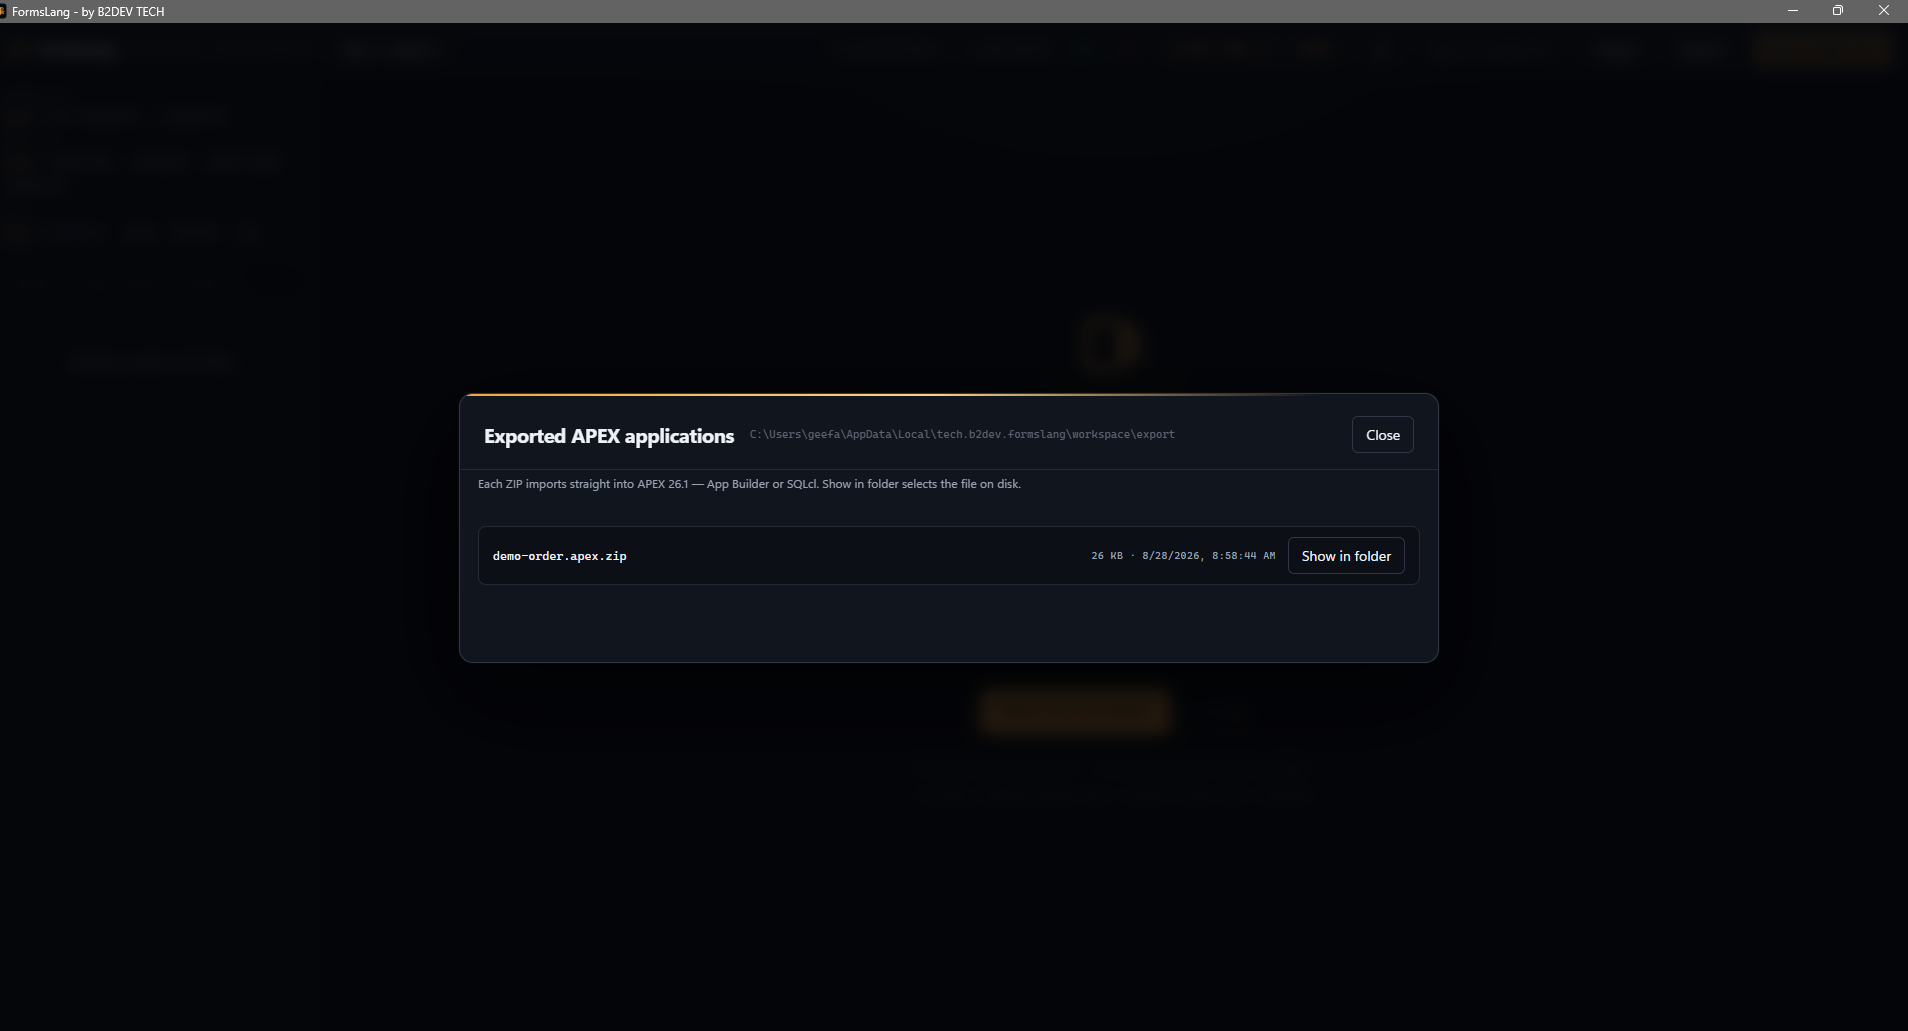
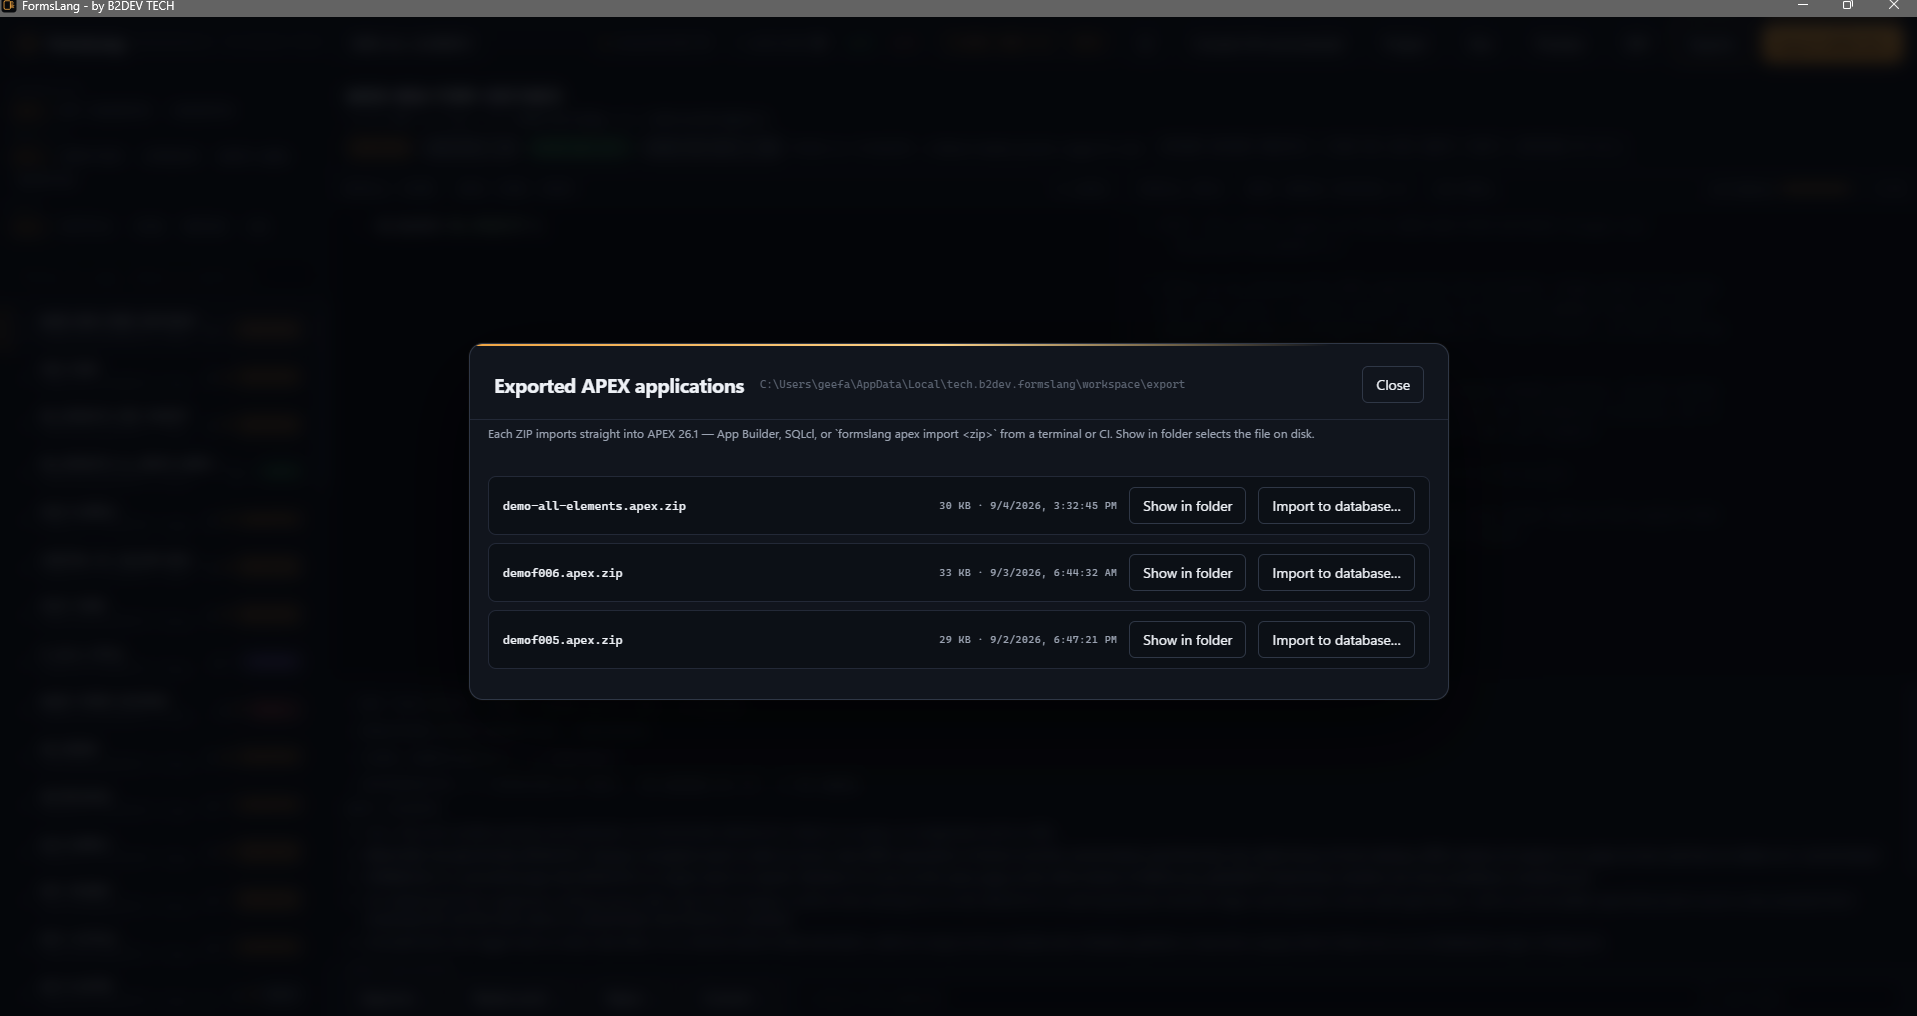
docs: refresh README screenshots from the 1.0 workbench
Sixteen captures of the 1.0 workbench on the showcase module replace the
older set: the review screen (hero), a unit converting through the
Claude Code CLI, Doc (overview, block, triggers), Preview (the Forms
canvas next to the APEX page), Diff, the export dialog while importing
and after "Import successful.", the Exports panel, App Builder before
and after the import, and the imported page running in APEX 26.1.
Every image has alt text and a caption; the running-page screenshot
carries a note that the layout of the converted application is being
improved. doc-report.png is superseded by the three Doc captures.

diff --git a/README.md b/README.md
@@ -35,13 +35,15 @@ same session rebuilds, byte for byte, on a build server.
 
 <p align="center">
   <img src="assets/screenshots/workbench-review.png" width="900"
-       alt="The FormsLang workbench reviewing a PRE-INSERT trigger: the Forms code on the left, the proposed APEX code on the right, and the model's reasoning underneath">
+       alt="The FormsLang workbench reviewing a WHEN-VALIDATE-ITEM trigger: the four lines of Forms code on the left, the APEX page validation proposed to replace them on the right at confidence 0.82, and underneath what changed, split into facts, inferences and assumptions">
 </p>
 
 <p align="center">
-  <sub>The workbench mid-review: a block-level <code>PRE-INSERT</code> trigger, the APEX code
-  proposed to replace it, what changed and why, and the questions the model refused
-  to answer on its own. The verdict on this one was <em>rejected</em> — by a human.</sub>
+  <sub>The workbench mid-review: unit 4 of 59, a <code>WHEN-VALIDATE-ITEM</code> on
+  <code>BK_PRODUTO.VL_PRECO</code>. Left, the four lines that run today; right, the page
+  validation proposed to replace them; underneath, <em>what changed</em> — facts first,
+  then inferences, then the two assumptions the model made and flagged as unverified.
+  The verdict is still open. The bar at the bottom is waiting for a name.</sub>
 </p>
 
 ## Creator
@@ -343,6 +345,18 @@ tracks elapsed time, queued units show a spinner, and the unit being read
 gets an overlay on the APEX pane — the screen accounts for every second of
 it instead of going quiet.
 
+<p align="center">
+  <img src="assets/screenshots/workbench-converting-cli.png" width="900"
+       alt="Converting WHEN-NEW-FORM-INSTANCE with the Claude Code CLI: the top bar names the unit and counts elapsed seconds, the APEX pane explains what the model is doing, and the risk, behaviour, compatibility and dependency panels below are already filled from the offline analysis">
+</p>
+
+<p align="center">
+  <sub>One unit, one CLI call. The top bar says which unit and how long; the APEX
+  pane says what is happening and how long it usually takes; and the panels below —
+  risk LOW with its single factor, behaviour PRESERVED, dependencies counted both
+  ways — were computed offline, before the model was asked anything.</sub>
+</p>
+
 ### What the screen tells you before you decide
 
 Every unit is measured the moment the module opens — offline, with no
@@ -417,8 +431,29 @@ formslang doc "D:\legacy\forms\ORDERS.fmb" -o out
 ```
 
 <p align="center">
-  <img src="assets/screenshots/doc-report.png" width="900"
-       alt="FormsLang Doc report for a real Forms module: overview counts (7 blocks, 121 items, 77 triggers, 14 program units, 4 LOVs, 4 record groups) and the first block's properties, including its query source table and WHERE clause">
+  <img src="assets/screenshots/doc-overview.png" width="900"
+       alt="FormsLang technical documentation for the showcase module DEMO_ALL_ELEMENTS: overview counts (5 blocks, 78 items, 55 triggers, 4 program units, 4 LOVs, 3 record groups, 2 relations, 500 PL/SQL lines), the module properties and the start of the block reference">
+</p>
+
+<table align="center">
+  <tr>
+    <td width="50%">
+      <img src="assets/screenshots/doc-block.png"
+           alt="The Blocks tab: BK_PRODUTO's properties — database block, query source TAB_PRODUTO, insert, update and delete allowed, ORDER BY DS_NOME — followed by its 33 items with type, datatype, column, required flag, maximum length, prompt and LOV">
+    </td>
+    <td width="50%">
+      <img src="assets/screenshots/doc-triggers.png"
+           alt="Block-level triggers of BK_PRODUTO exactly as Forms stored them: PRE-QUERY, 10 lines, and POST-QUERY, 25 lines">
+    </td>
+  </tr>
+</table>
+
+<p align="center">
+  <sub>Left: one block, property by property, then every item with its type, column,
+  required flag, maximum length, prompt and LOV. Right: the block's triggers,
+  verbatim — the <code>PRE-QUERY</code> that sets a default WHERE from a control
+  checkbox, the <code>POST-QUERY</code> that formats a price and looks up a category.
+  Nothing is summarized. The document <em>is</em> the module.</sub>
 </p>
 
 `Diff` structurally compares two versions of the same module — blocks,
@@ -436,6 +471,28 @@ every form-level trigger and all eighteen program units reported unchanged,
 because they were. A `.fmb` in git is a binary blob; this is the diff git
 cannot give you.
 
+<table align="center">
+  <tr>
+    <td width="50%">
+      <img src="assets/screenshots/diff-blocks.png"
+           alt="Structural diff summary: for blocks, form-level triggers, program units, LOVs, record groups and relations, how many were added, removed, modified and unchanged; below it the blocks added and removed as chips, and the one modified block with its property changed from N to Y">
+    </td>
+    <td width="50%">
+      <img src="assets/screenshots/diff-items-triggers.png"
+           alt="The same diff further down: items added and removed as chips, the form-level triggers removed, and a modified WHEN-NEW-FORM-INSTANCE shown as a unified diff hunk">
+    </td>
+  </tr>
+</table>
+
+<p align="center">
+  <sub>The screenshots are a different run — the showcase module diffed against an
+  unrelated one, so every section has something to report. The summary counts
+  what was added, removed and modified <em>and</em> what stayed the same; below
+  it, blocks, items and triggers as chips, one property per row, and every
+  modified code body as a unified hunk. On two revisions of the same module,
+  most of this page reads <em>unchanged</em>.</sub>
+</p>
+
 ### Visual preview (`Preview`)
 
 A third button, same idea: a read-only, side-by-side look at every Forms
@@ -449,6 +506,34 @@ approximated rather than silently shown as a sure match.
 ```bash
 formslang preview "D:\legacy\forms\ORDERS.fmb" -o out
 ```
+
+<p align="center">
+  <img src="assets/screenshots/preview-mapping.png" width="900"
+       alt="Visual preview of DEMO_ALL_ELEMENTS: 5 canvases, 5 blocks, 78 items, 74 positioned, 1 hidden in Forms, 25 APEX regions, 78 mapped with confirmed evidence and 0 approximated; a notice that this is the default mapping with no picker; and the first Forms canvas drawn at real size">
+</p>
+
+<table align="center">
+  <tr>
+    <td width="50%">
+      <img src="assets/screenshots/preview-forms-canvas.png"
+           alt="The Forms UI as the .fmb describes it: canvas CV_MAIN, 760 by 410 points, the window 'Cadastro de Produto' with its toolbar buttons, frames, prompts, a checkbox, a radio group and a list item, drawn at real size">
+    </td>
+    <td width="50%">
+      <img src="assets/screenshots/preview-apex-page.png"
+           alt="The APEX preview of the same canvas: a toolbar region, the 'Cadastro de Produto' region with 'Dados do Produto' inside it, every item in its 12-column cell and badged with the APEX type it will get — textField, textarea, selectList, displayOnly — and the five items that sit on no canvas listed above">
+    </td>
+  </tr>
+</table>
+
+<p align="center">
+  <sub>Source on the left, destination on the right — the same 24 items of
+  <code>CV_MAIN</code>. The Forms side is drawn from the <code>.fmb</code> geometry
+  (1 point = 1.33 px), bevels, prompts and boilerplate included. The APEX side is
+  the page exactly as the export writes it, each item badged with the APEX type it
+  gets. The five items that live on no canvas are listed, not lost. The counters
+  at the top say how much of that mapping rests on confirmed evidence: here, all
+  78 items, none approximated.</sub>
+</p>
 
 ## Authentication and multi-user workspaces
 
@@ -606,6 +691,26 @@ underneath, shows the exact command line that rebuilds the same ZIP from a
 terminal — `formslang export ORDERS.session.db --app-id 19078 --alias
 orders` — kept in step with the fields as you type.
 
+<table align="center">
+  <tr>
+    <td width="50%">
+      <img src="assets/screenshots/export-dialog-importing.png"
+           alt="The Export Oracle APEX 26.1 dialog: application name, alias, application ID 100, workspace and parsing schema left to be resolved during import, page 1, the 'Import into APEX right after building' checkbox, the equivalent command line, a JDBC thin connection to FREEPDB1, the schema user, a masked password, and the Importing… state; a toast says the APEXlang ZIP is ready">
+    </td>
+    <td width="50%">
+      <img src="assets/screenshots/export-dialog-imported.png"
+           alt="The same dialog after SQLcl returned: 'Importing application ID: 100 into workspace: FORMSLANG — Import successful.' in green, a Show exports button, and an 'Imported into APEX.' toast">
+    </td>
+  </tr>
+</table>
+
+<p align="center">
+  <sub>The same dialog, a few seconds apart. Workspace and parsing schema are
+  resolved during import, not baked into the ZIP. The line under the checkbox is
+  the build a pipeline runs. The password is masked here and goes to the OS
+  credential store, never to a file. On the right, SQLcl's own verdict, verbatim.</sub>
+</p>
+
 The export folder contains:
 
 - `<alias>.apex.zip` — the APEXlang 26.1 package for SQLcl validation/import
@@ -633,7 +738,7 @@ after every export.
 
 <p align="center">
   <img src="assets/screenshots/exports.png" width="900"
-       alt="Exported APEX applications panel listing demo-order.apex.zip with its size, timestamp and a Show in folder action">
+       alt="Exported APEX applications panel: the export folder path in the header, three ZIPs with size and timestamp, and Show in folder and Import to database… actions on each">
 </p>
 
 The ZIP is deliberately separate from the audit artifacts. Only approved
@@ -682,6 +787,46 @@ apex import   -input orders.apex.zip
 appears when a page is rendered. The repeatable procedure for that last
 mile — import, make the page public, fetch it through ORDS, read the HTML —
 is in [docs/apex-import-verification.md](docs/apex-import-verification.md).
+
+### What lands in APEX
+
+<table align="center">
+  <tr>
+    <td width="50%">
+      <img src="assets/screenshots/apex-builder-before.png"
+           alt="Oracle APEX 26.1 App Builder, workspace formslang, before the import: No Applications found">
+    </td>
+    <td width="50%">
+      <img src="assets/screenshots/apex-builder-after.png"
+           alt="The same App Builder after formslang apex import: application 100, DEMO_ALL_ELEMENTS, alias demo-all-elements, 3 pages">
+    </td>
+  </tr>
+</table>
+
+<p align="center">
+  <sub>Before and after one <code>formslang apex import</code> on a local APEX 26.1
+  (<code>FREEPDB1</code>): an empty workspace, then application 100 with its three
+  pages — the ZIP the dialog above built, nothing else.</sub>
+</p>
+
+<p align="center">
+  <img src="assets/screenshots/apex-app-running.png" width="900"
+       alt="Page 1 of the imported application running in APEX 26.1 with Universal Theme: the toolbar buttons and the 'Somente ativos' checkbox at the top, the 'Cadastro de Produto' region with 'Dados do Produto' inside it, every Forms item as a page item — text fields, a textarea, a select list, a radio group, a checkbox — and the 'Identificacao do Lote' region below">
+</p>
+
+<p align="center">
+  <sub>The converted page, running. Every item of the canvas is on the page, in
+  Universal Theme, in the region and grid cell its Forms position mapped to, with
+  the required marks Forms declared.</sub>
+</p>
+
+> **Note — the layout of the converted application is being improved.** What
+> you see above is the scaffold 1.0 exports today: correct placement, correct
+> item types, correct required flags, but item widths, label alignment and
+> region packing still read as a migration scaffold rather than a finished
+> page. Tightening that layout is the current work on the exporter. Schema
+> binding, LOVs, validations and navigation remain the functional review
+> described above.
 
 ## Versioning Forms and APEXlang in git
 

diff --git a/CHANGELOG.md b/CHANGELOG.md
@@ -7,6 +7,15 @@ and this project adheres to [Semantic Versioning](https://semver.org/spec/v2.0.0
 
 ## [Unreleased]
 
+### Changed
+
+- README: screenshots refreshed from the 1.0 workbench on the showcase
+  module — review and CLI conversion, Doc (overview, block, triggers),
+  Preview (Forms canvas next to the APEX page), Diff, the export dialog
+  before and after import, the Exports panel, App Builder before and after,
+  and the imported page running in APEX 26.1 — each with a caption, plus a
+  note that the layout of the converted application is being improved.
+
 ### Fixed
 
 - Test suite: the concurrent-MFA-validation test took its TOTP code from
